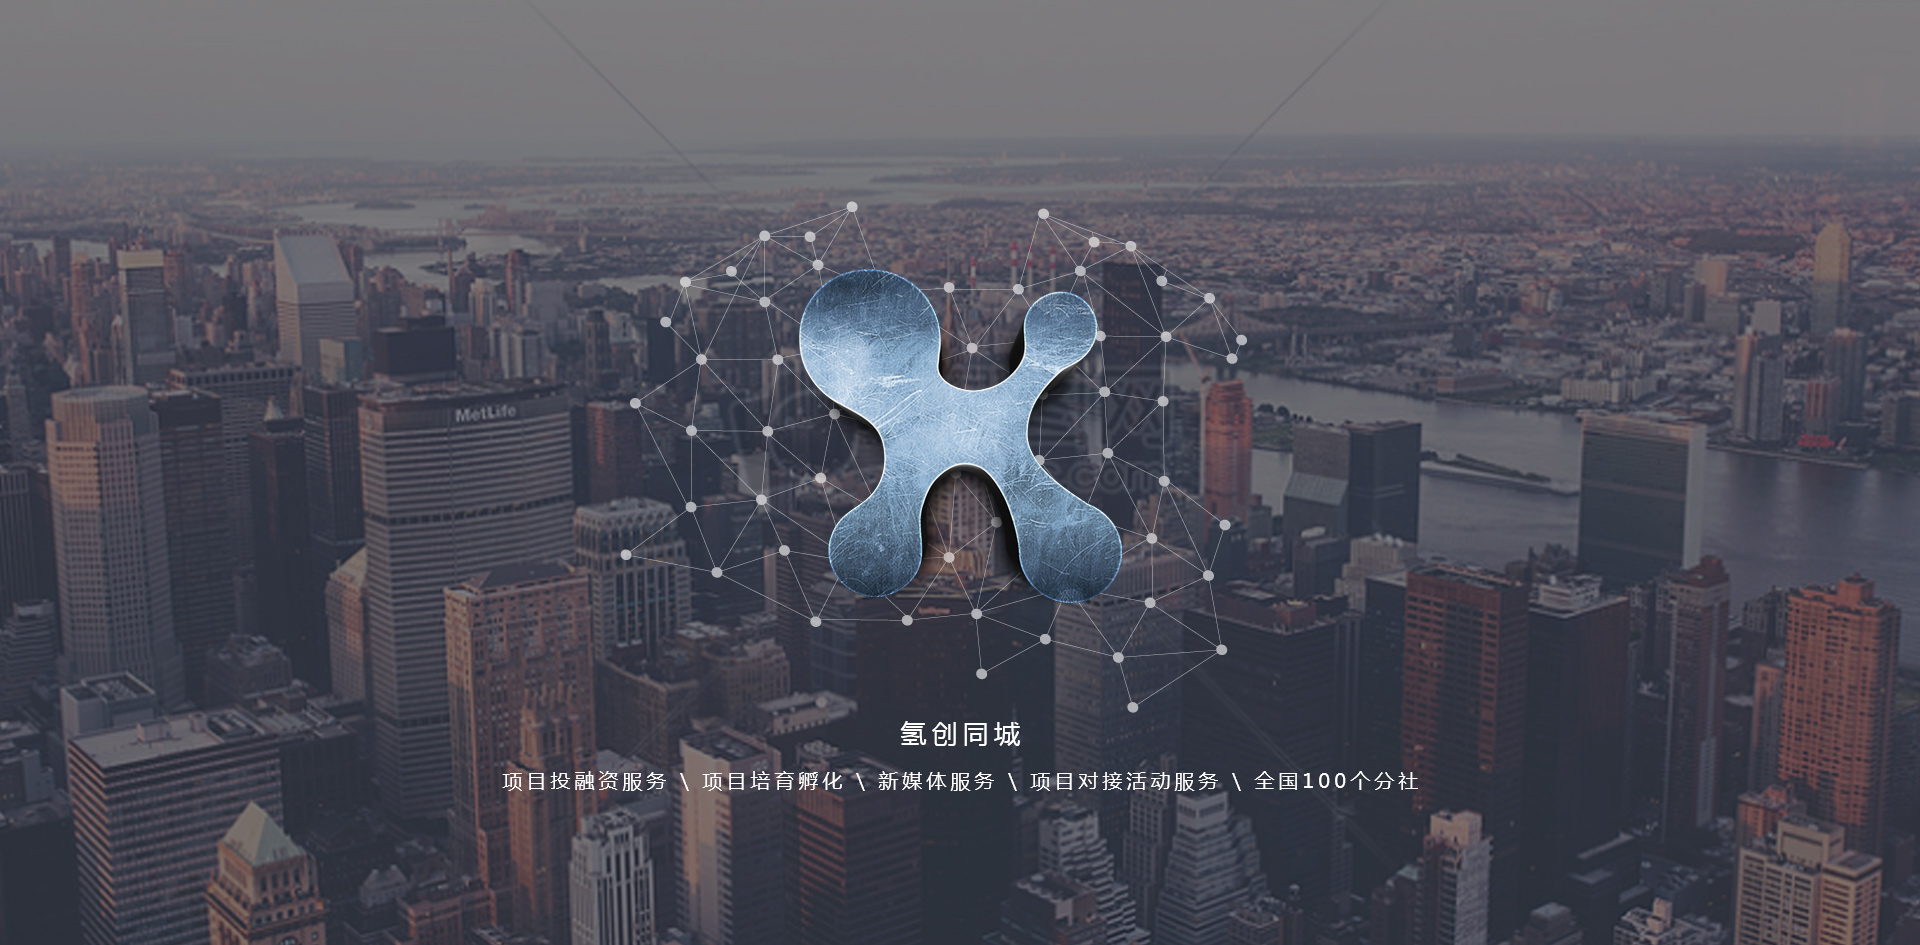
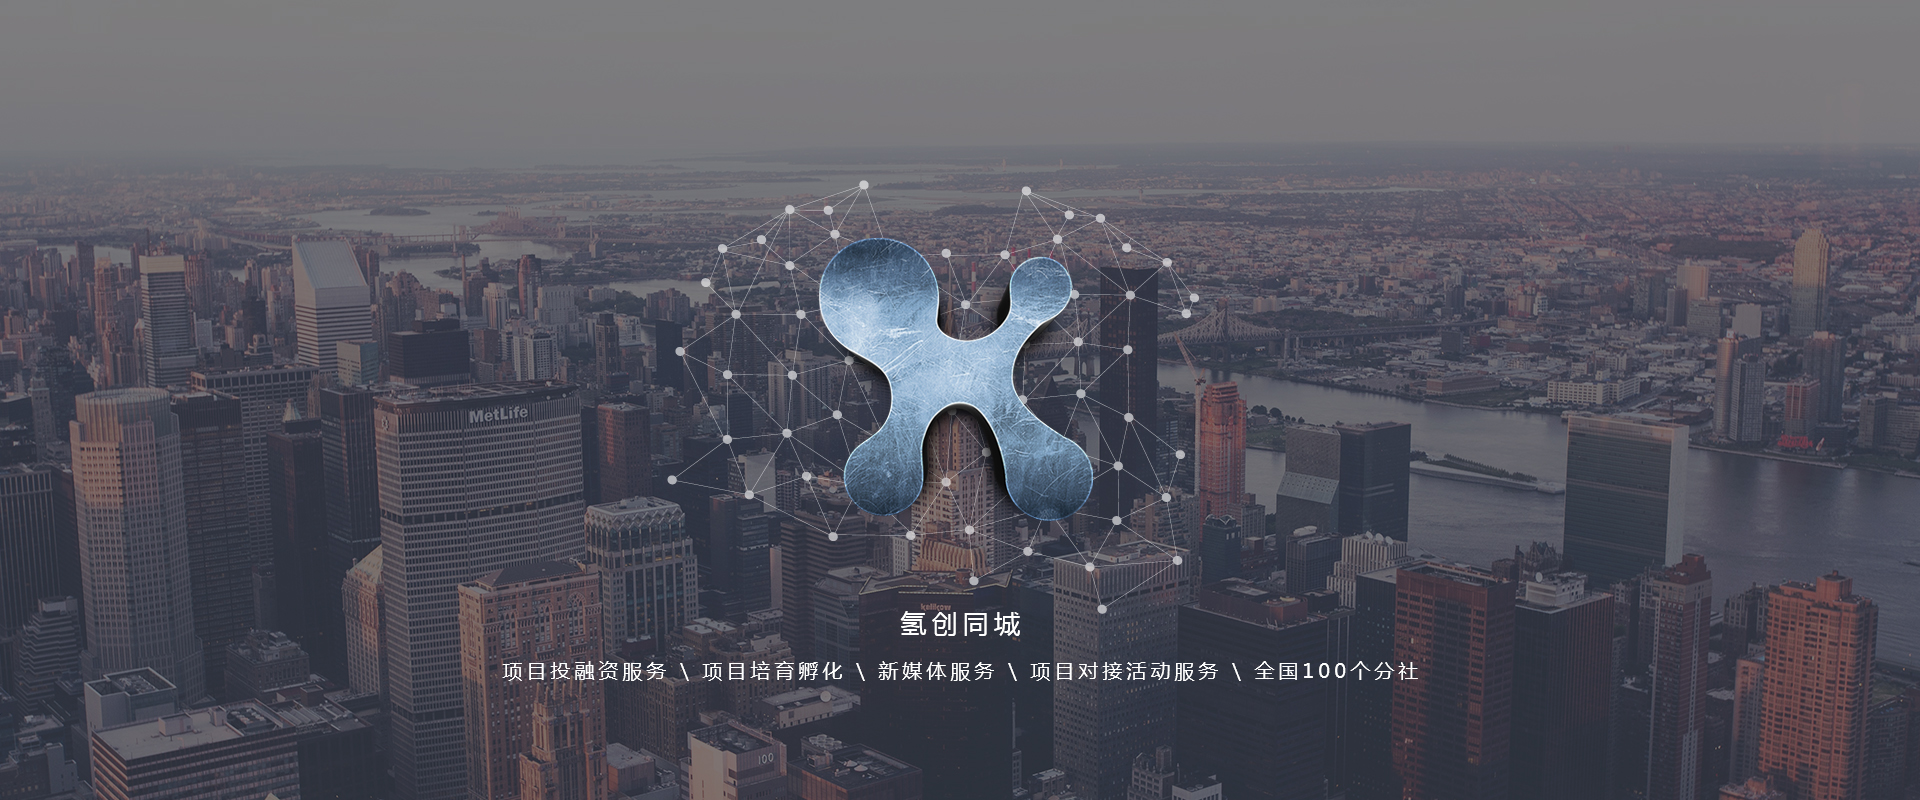
2017-11-24
2017-11-24

Changed region(s): [[0.0, 0.1875, 1.0, 1.0], [0.875, 0.1562, 1.0, 0.1875]]

diff --git a/src/page/home.vue b/src/page/home.vue
@@ -1,9 +1,9 @@
 <template>
   <div>
       <!--头部导航-->
-      <div class="topContain">
-        <div style="position: absolute; top:0; left: 0;  z-index: -1; width: 100%; min-width: 1200px; overflow: hidden ">
-          <ul :style="{marginLeft:-oneWidth*(bgIndex-1)+'px'}" :class="target?'noAction':''">
+      <div class="topContain" @mouseover="mouseOver" @mouseout="mouseOut">
+        <div style="position: absolute; top:0; left: 0;  z-index: -1; width: 100%; min-width: 1200px; overflow: hidden " >
+          <ul :style="{marginLeft:-oneWidth*(bgIndex-1)+'px'}" :class="target?'noAction':''" >
             <li :style="{width:oneWidth+'px'}"><img src="static/banner1.jpg" class="topImg" :style="{width:oneWidth+'px'}"></li>
             <li :style="{width:oneWidth+'px'}"><img src="static/banner2.jpg" class="topImg" :style="{width:oneWidth+'px'}"></li>
             <li :style="{width:oneWidth+'px'}"><img src="static/banner3.jpg" class="topImg" :style="{width:oneWidth+'px'}"></li>
@@ -20,6 +20,11 @@
             <li><a href="javascript:void(0)" @click="goAnchor('#anchor-3')">大事记</a></li>
             <li><a href="javascript:void(0)" @click="goAnchor('#anchor-4')">价值提供</a></li>
             <li><a href="javascript:void(0)" @click="goAnchor('#anchor-5')">常见问题</a></li>
+            <!--<li><a href="home#anchor-1">同城简介</a></li>
+            <li><a href="home#anchor-2">解决问题</a></li>
+            <li><a href="home#anchor-3">大事记</a></li>
+            <li><a href="home#anchor-4">价值提供</a></li>
+            <li><a href="home#anchor-5">常见问题</a></li>-->
           </ul>
         </div>
     <!--    <div style="width: 1200px;position: relative;">
@@ -35,7 +40,7 @@
         </div>
       </div>
       <!--固定导航-->
-      <div v-if="showMenu" class="nav">
+      <div v-if="showMenu&&!reset" class="nav">
         <div class="topCol">
           <img src="static/dibuLOGO.png" />
           <ul>
@@ -317,6 +322,7 @@
         stepHoverIndex:0,
         stepIndex:1,
         bgIndex:1,
+        bgHover:false,
         menuSelect:1,
         oneWidth:1920,
         ceyiSelect:0,
@@ -324,6 +330,7 @@
         target:false,
         showMC:false,
         showMenu:false,
+        reset:false,
         domTopList:[],
         userInfo:{
           name:"",
@@ -376,7 +383,6 @@
           document.documentElement.scrollTop = anchor.offsetTop;
           document.body.scrollTop = anchor.offsetTop;
         }
-
       },
       resetAnimate(index){
         this.bgIndex=index;
@@ -386,6 +392,8 @@
         var _this=this;
         clearInterval(this.timer)
         this.timer=setInterval(function(){
+          if(_this.bgHover)
+             return;
           _this.bgIndex+=1;
           if(_this.bgIndex>3){
             setTimeout(function(){
@@ -401,7 +409,6 @@
         },5000)
       },
       submit(para){
-        console.log(para)
         var data;
         var _this=this;
         if(para){
@@ -430,8 +437,11 @@
           }
         })
       },
-      testB(){
-        console.log(123)
+      mouseOver(){
+       this.bgHover=true;
+      },
+      mouseOut(){
+        this.bgHover=false;
       }
     },
     components:{
@@ -439,33 +449,40 @@
         foot
     },mounted(){
       this.select = '#anchor-'+this.$route.query.select;
-      this.goAnchor(this.select);
+
       var _this=this;
+      _this.goAnchor(_this.select);
+      _this.reset=true;
+      setTimeout(function () {
+        _this.goAnchor(_this.select);
+        _this.reset=false
+      },1000)
+
       this.domTopList=[];
       for(var i=1;i<=5;i++){
         this.domTopList[i-1]=$("#anchor-"+i).offset().top-70;
       }
       window.onscroll = function () {
         /*945,116*/
-         var currentTop= document.body.scrollTop||document.documentElement.scrollTop;
-           for(var i=0;i<5;i++){
-             if(currentTop<_this.domTopList[0]){
-               _this.menuSelect=1;
-               break;
-             }else if(currentTop>_this.domTopList[i]&&currentTop<_this.domTopList[i+1]){
-              _this.menuSelect=i+1;
-              break;
-            }else if(currentTop>_this.domTopList[4]){
-               _this.menuSelect=5;
-               break;
-             }
+        var currentTop= document.body.scrollTop||document.documentElement.scrollTop;
+        for(var i=0;i<5;i++){
+          if(currentTop<_this.domTopList[0]){
+            _this.menuSelect=1;
+            break;
+          }else if(currentTop>_this.domTopList[i]&&currentTop<_this.domTopList[i+1]){
+            _this.menuSelect=i+1;
+            break;
+          }else if(currentTop>_this.domTopList[4]){
+            _this.menuSelect=5;
+            break;
           }
-         if(currentTop>=945){
-           _this.showMenu=true;
-         }
-         else{
-           _this.showMenu=false;
-         }
+        }
+        if(currentTop>=800){
+          _this.showMenu=true;
+        }
+        else{
+          _this.showMenu=false;
+        }
       }
     }
 

diff --git a/src/page/secrecy.vue b/src/page/secrecy.vue
@@ -14,11 +14,16 @@
              <li><a href="home#cjwt">常见问题</a></li>
            </ul>-->
           <ul>
-            <li><router-link :to="{name:'home',query:{select:1}}">同城简介</router-link></li>
-            <li><router-link :to="{name:'home',query:{select:2}}">解决问题</router-link></li>
-            <li><router-link :to="{name:'home',query:{select:3}}">大事记</router-link></li>
-            <li><router-link :to="{name:'home',query:{select:4}}">价值提供</router-link></li>
-            <li><router-link :to="{name:'home',query:{select:5}}">常见问题</router-link></li>
+              <li><router-link :to="{name:'home',query:{select:1}}">同城简介</router-link></li>
+             <li><router-link :to="{name:'home',query:{select:2}}">解决问题</router-link></li>
+             <li><router-link :to="{name:'home',query:{select:3}}">大事记</router-link></li>
+             <li><router-link :to="{name:'home',query:{select:4}}">价值提供</router-link></li>
+             <li><router-link :to="{name:'home',query:{select:5}}">常见问题</router-link></li>
+            <!--<li><a href="home#anchor-1">同城简介</a></li>
+            <li><a href="home#anchor-2">解决问题</a></li>
+            <li><a href="home#anchor-3">大事记</a></li>
+            <li><a href="home#anchor-4">价值提供</a></li>
+            <li><a href="home#anchor-5">常见问题</a></li>-->
           </ul>
         </div>
       </div>

diff --git a/src/assets/css/home.css b/src/assets/css/home.css
@@ -1,7 +1,7 @@
 body{width: 100%}
 div{margin: 0 auto}
-.topContain{overflow: hidden; background-size: cover; min-width: 1200px; width: 100%; height: 945px;}
-.topImg{min-width: 1200px; width: 1920px; height: 945px; /* z-index: -1; position: absolute; left: 0; top:0;*/}
+.topContain{overflow: hidden; background-size: cover; min-width: 1200px; width: 100%; height: 800px;}
+.topImg{min-width: 1200px; width: 1920px; height: 800px; /* z-index: -1; position: absolute; left: 0; top:0;*/}
 .topContain ul{display: inline-block; width:11520px; top:0;  z-index: -1; margin-left: -0px; transition: all 2s;}
 .topContain  .noAction{transition:none}
 .topContain ul li{float: left; position: relative;width: 1920px;}

diff --git a/src/page/about.vue b/src/page/about.vue
@@ -19,6 +19,11 @@
             <li><router-link :to="{name:'home',query:{select:3}}">大事记</router-link></li>
             <li><router-link :to="{name:'home',query:{select:4}}">价值提供</router-link></li>
             <li><router-link :to="{name:'home',query:{select:5}}">常见问题</router-link></li>
+            <!--<li><a href="home#anchor-1">同城简介</a></li>
+            <li><a href="home#anchor-2">解决问题</a></li>
+            <li><a href="home#anchor-3">大事记</a></li>
+            <li><a href="home#anchor-4">价值提供</a></li>
+            <li><a href="home#anchor-5">常见问题</a></li>-->
           </ul>
         </div>
       </div>

diff --git a/src/router/index.js b/src/router/index.js
@@ -9,7 +9,7 @@ import about from '@/page/about.vue'
 Vue.use(Router)
 
 export default new Router({
-  /*mode:"history",*/
+/*  mode:"history",*/
   routes: [
     {
       path: '/',
